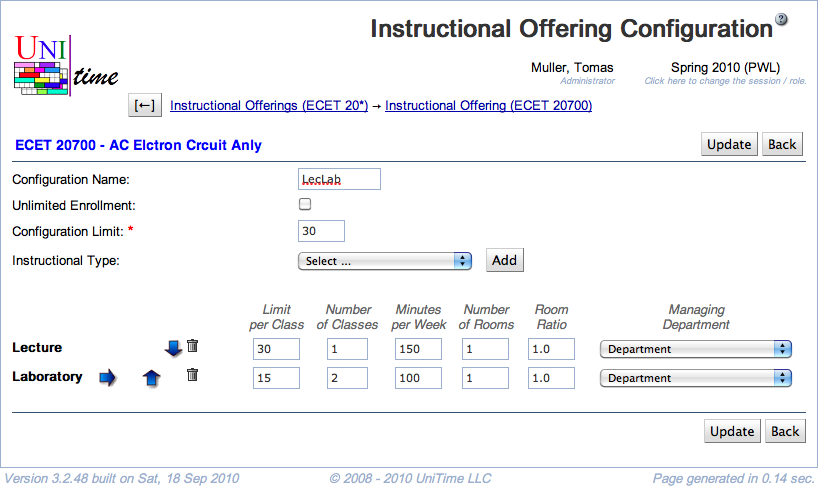
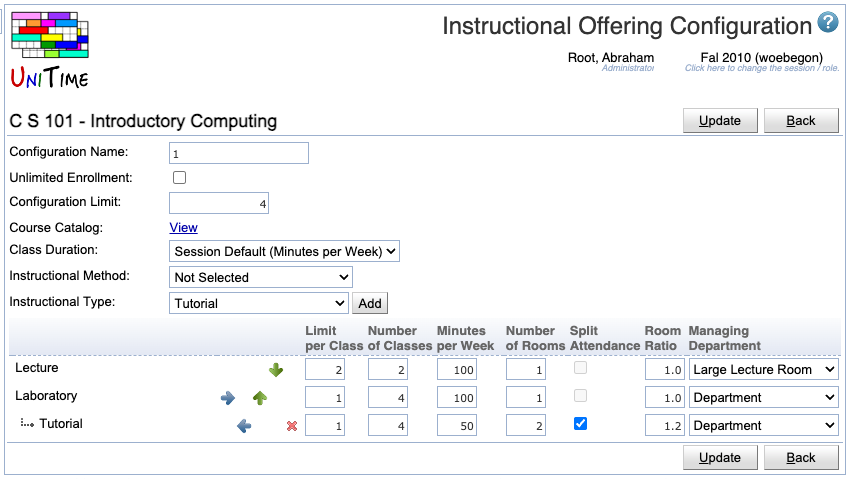
Instructional Offering Configuration
- new screenshots, new fields, text cleanup

diff --git a/instructional-offering-configuration.md b/instructional-offering-configuration.md
@@ -6,69 +6,84 @@ title: Instructional Offering Configuration
 
 ## Screen Description
 
-In the Instructional Offering Configuration screen you can set up or edit the general structure of the instructional offering. This is the only place where you can indicate for how many minutes per week the classes should meet and whether or not the classes are grouped in any way.
+In the Instructional Offering Configuration screen, you can set up or edit the general structure of the instructional offering. This is the only place where you can specify the number of minutes per week the classes should meet and whether they are grouped in any way.
 
 ![Instructional Offering Configuration](images/instructional-offering-configuration-1.png){:class='screenshot'}
 
 ## Details
 
 * **Configuration Name**
-	* By default the configuration names are numbers - the first configuration is named "1" etc.
-	* You can change the name of your configuration
-		* You may wish to give descriptive names to your configurations if there are more than one for this instructional offering
+    * By default, the configuration names are numbers - the first configuration is named "1", etc.
+    * You can change the name of your configuration
+        * You may wish to give descriptive names to your configurations if there is more than one for this instructional offering
 
 * **Unlimited Enrollment**
-	* Check this checkbox if the instructional offering should have unlimited enrollment
-	* When Unlimited Enrollment is checked, you will only be able to set the number of minutes per week for the scheduling subparts. You will not be able to set limit per class or number of rooms (the number of rooms is automatically set to zero). You have the option to indicate a room to print on the student schedule by requiring that room in the scheduling subpart or in the class preferences, but keep in mind there is no check whether the room is available, it is just printed on the schedule.
+    * Check this checkbox if the instructional offering should have unlimited enrollment
+    * When Unlimited Enrollment is selected, you can only set the number of minutes per week for the scheduling subparts. You will not be able to set a limit per class or number of rooms (the number of rooms is automatically set to zero). You have the option to indicate a room to print on the student schedule by requiring that room in the scheduling subpart or the class preferences. However, please note that there is no check to verify the room's availability; it is simply printed on the schedule.
 
 * **Configuration Limit**
-	* Indicates how many students you want to allow in this instructional offering in this configuration
-	* It is the same as the course limit if you have only one configuration and one course in the instructional offering
-	* It is the total of limits of all cross-listed courses for this instructional offering if you have more than one course and only one configuration for this instructional offering
+    * Indicates how many students you want to allow in this instructional offering in this configuration
+    * It is the same as the course limit if you have only one configuration and one course in the instructional offering
+    * It is the total limits of all cross-listed courses for this instructional offering if you have more than one course and only one configuration for this instructional offering
+
+* **Class Duration**
+    * Class duration model for the configuration
+    * See [Class Duration Types](class-duration-types) for more details
+
+* **Instructional Method**
+    * An optional instructional method for the configuration (such as Traditional, Online, or Hybrid)
+    * Instructional methods are defined on [Instructional Methods](instructional-methods) page in the Administration
 
 * **Instructional Type**
-	* Select the instructional type that you need in the drop down menu and click **Add** (Alt+A) to add a scheduling subpart of this instructional type to your instructional offering
-	* You can select and add as many instructional types as you want
-	* You can also select and add the same instructional type more than once
-		* This is necessary e.g. if you have a lecture that is twice a week in one room and once a week in another room - you will need one scheduling subpart for each of the rooms; or if you have a part of the lab in your departmental rooms and a part in instructional computing labs; there are many reasons for reusing the instructional type
-		* See the Nesting section below for further instructions when using the same instructional type for multiple subparts
+    * Select the instructional type that you need in the drop-down menu and click **Add** (Alt+A) to add a scheduling subpart of this instructional type to your instructional offering
+    * You can select and add as many instructional types as you want
+    * You can also select and add the same instructional type more than once
+        * This is necessary, e.g., if you have a lecture that is twice a week in one room and once a week in another room - you will need one scheduling subpart for each of the rooms; or if you have a part of the lab in your departmental rooms and a part in instructional computing labs; there are many reasons for reusing the instructional type
+        * See the Nesting section below for further instructions when using the same instructional type for multiple subparts
 
 For each scheduling subpart that you added, you have
 
-* Click **trashbin icon** to delete that subpart **Limit per Class**
-	* How many students should there be in each class of this scheduling subpart
-	* To be able to set variable limits per class, you need to change the property "Show the option to set variable class limits" in the [Manager Settings](manager-settings) screen before you edit this configuration
+* Click ![Delete](images/icon-delete.png) to delete that subpart
+* **Limit per Class**
+    * How many students should there be in each class of this scheduling subpart
+    * To be able to set variable limits per class, you need to change the property "Show the option to set variable class limits" in the [Manager Settings](manager-settings) screen before you edit this configuration
 
 * **Number of Classes**
-	* Calculated automatically from Limit per Class in order to have enough classes to cover the configuration limit; but can be overwritten by you
+    * Calculated automatically from Limit per Class in order to have enough classes to cover the configuration limit, but can be overwritten by you
 
 * **Minutes per Week**
-	* Number of minutes per week - for example, a typical class that meets in a 2x75 or a 3x50 pattern would have 150 minutes per week (each 50 minutes is equivalent to one hour)
+    * Number of minutes per week - for example, a typical class that meets in a 2x75 or a 3x50 pattern would have 150 minutes per week (each 50 minutes is equivalent to one hour)
+    * The name of the column, as well as the meaning of the provided number, depends on the [Class Duration Type](class-duration-types) used
 
 * **Number of Rooms**
-	* Number of meeting rooms required for each class
-	* In most cases, it is one
+    * Number of meeting rooms required for each class
+    * In most cases, it is one
+
+* **Split Attendance**
+    * When two or more rooms are needed
+    * If checked, students are expected to split between the two (or more) rooms. That is the total capacity of the assigned room &times; the room ratio must be equal to or greater than the class limit.
+    * If unchecked, all students are expected to be able to fit in any of the assigned rooms. That is, the room capacity of any assigned room &times; the room ratio must be equal to or greater than the class limit.
 
 * **Room Ratio**
-	* The ratio of the required room size to the class limit
-		* Room Ratio = Room Size / Limit per Class
-	* In almost all cases, this should be one
-	* Some exceptions to the norm
-		* You need a room for fewer students than the class limit (Room Ratio is less than one)
-			* Example: A course has a PSO class for 100 students, but the schedule deputy knows that there will never be more than 50 students at a time in this PSO. Hence this PSO can be set up with Limit per Class = 100 and Room Ratio = 0.50, which means that the application will look for a room of size 50 or more (0.5*100=50).
-		* You need a room for a class with zero limit. In this case, Room Ratio needs to contain the required room size.
-			* Example: You set up a course with zero limit where all students require name raises. You plan on enrolling 20 students per class. Then the Room Ratio should be set to 20. In this situation, the above formula for Room Ratio does not apply. The Room Ratio will be used as the room size needed.
+    * The ratio of the required room size to the class limit
+        * Room Ratio = Room Size / Limit per Class
+    * In almost all cases, this should be one
+    * Some exceptions to the norm
+        * You need a room for fewer students than the class limit (Room Ratio is less than one)
+            * Example: A course has a PSO class for 100 students, but the schedule deputy knows that there will never be more than 50 students at a time in this PSO. Hence, this PSO can be set up with Limit per Class = 100 and Room Ratio = 0.50, which means that the application will look for a room of size 50 or more (0.5*100=50).
+        * You need a room for a class with zero limit. In this case, the Room Ratio needs to contain the required room size.
+            * Example: You set up a course with zero limit where all students require name raises. You plan on enrolling 20 students per class. Then the Room Ratio should be set to 20. In this situation, the above formula for Room Ratio does not apply. The Room Ratio will be used as the room size needed.
 
 * **Managing Department**
-	* Determines who will assign time and room to this class (for example, whether it is the Large Lecture Room manager, the departmental schedule deputy, or the Computing Lab manager).
-	* The managing department also determines the set of rooms and/or times (time patterns) that you can use when you set up preferences
-	* For Managing Department other than "Departmental" you usually cannot set the preference level "Required" in the preferences on the subparts or on the classes (in the [Edit Scheduling Subpart](edit-scheduling-subpart) or in the [Edit Class](edit-class) screens)
+    * Determines who will assign time and room to this class (for example, whether it is the Large Lecture Room manager, the departmental schedule deputy, or the Computing Lab manager).
+    * The managing department also determines the set of rooms and/or times (time patterns) that you can use when you set up preferences
+    * For Managing Department other than "Department", you usually cannot set the preference level "Required" in the preferences on the subparts or on the classes (in the [Edit Scheduling Subpart](edit-scheduling-subpart) or in the [Edit Class](edit-class) screens)
 
 ## Grouping
 
-If an attendance relationship must be maintained across types of instructions within a course you will need to do a grouping i.e. Lec 01 with Rec 01 with Lab 01 and Lec 02 with Rec 02 and Lab 02. Grouping should be used only when necessary as student scheduling flexibility is reduced when grouping is used.
+If an attendance relationship must be maintained across types of instructions within a course, you will need to do a grouping, i.e., Lec 01 with Rec 01 with Lab 01 and Lec 02 with Rec 02 and Lab 02. Grouping should be used only when necessary as student scheduling flexibility is reduced when grouping is used.
 
-To group e.g. lectures with recitations, make sure that the lecture subpart is listed first and the recitation subpart is right under it (if you need to move a subpart up or down, use the blue arrows pointing up or down). Then click on the blue arrow pointing to the right for the recitation subpart. This way, each lecture will have its own set of recitations - for example, students from Rec 1 and Rec 2 will have to be in Lec 1, students from Rec 3 and Rec 4 have to be in Lec 2, etc.
+To group, e.g., lectures with recitations, make sure that the lecture subpart is listed first, and the recitation subpart is right under it (if you need to move a subpart up or down, use the green arrows pointing up or down). Then click on the blue arrow pointing to the right for the recitation subpart. This way, each lecture will have its own set of recitations - for example, students from Rec 1 and Rec 2 will have to be in Lec 1, students from Rec 3 and Rec 4 will have to be in Lec 2, etc.
 
 ## Nesting
 
@@ -79,7 +94,7 @@ Nesting differentiates this from multiple classes within the instructional offer
 ## Operations
 
 * **Update** (Alt+U)
-	* Save changes and go back to the [Instructional Offering Detail](instructional-offering-detail) screen.
+    * Save changes and go back to the [Instructional Offering Detail](instructional-offering-detail) screen.
 
 * **Back** (Alt+B)
-	* Go back to the [Instructional Offering Detail](instructional-offering-detail) screen without saving any changes.
+    * Go back to the [Instructional Offering Detail](instructional-offering-detail) screen without saving any changes.
